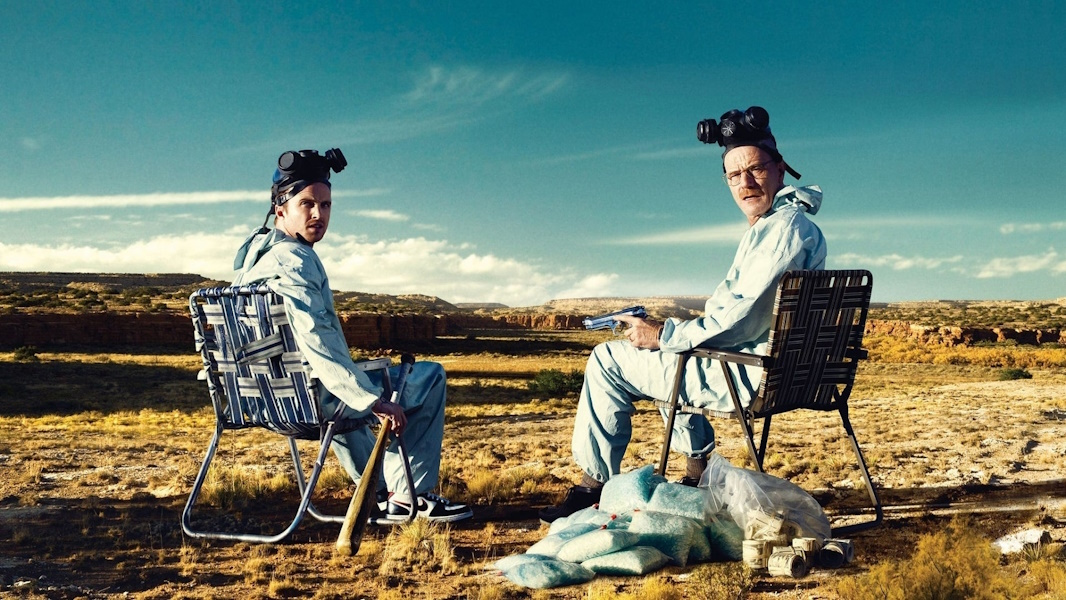
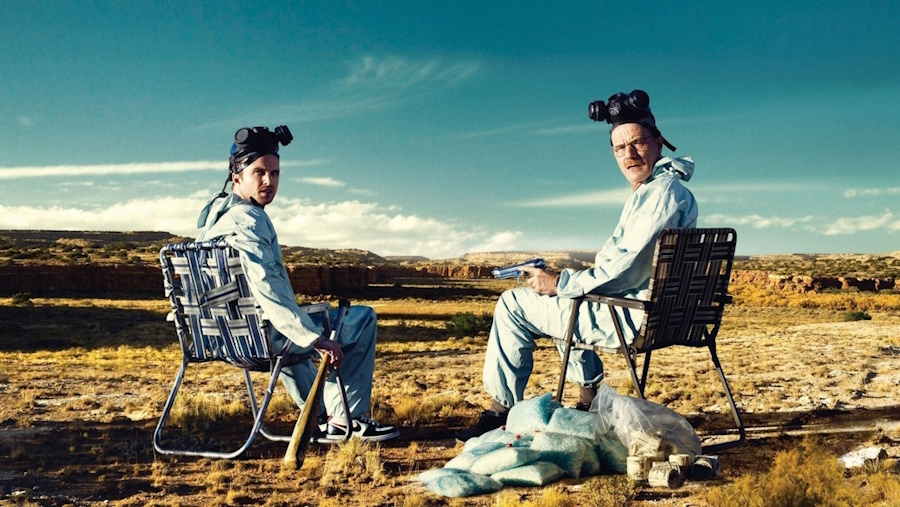
Tentando deixar responsivo

Changed region(s): [[0.2178, 0.6509, 0.28, 0.7101]]

diff --git a/style.css b/style.css
@@ -37,7 +37,8 @@ section .titulo {
 
 /* Carrossel - Inicio */
 section #carouselExampleCaptions {
-    width: 1066px;
+    width: 100%;
+    max-width: 900px;
     margin: 0 auto;
 }
 
@@ -49,6 +50,12 @@ section .carousel-inner h5 {
 section .carousel-inner p {
     color: white;
     text-shadow: 2px 2px 4px rgba(0, 0, 0, 0.8);
+}
+
+section .carousel-item img {
+    width: 100%;
+    height: auto;
+    object-fit: cover;
 }
 
 section #carouselExampleCaptions .carousel-inner img {
@@ -151,3 +158,11 @@ footer {
     padding: 10px;
 }
 /* Rodapé - Fim */
+
+
+
+/* Responsividade - Inicio */
+
+
+
+/* Responsividade - Fim */
